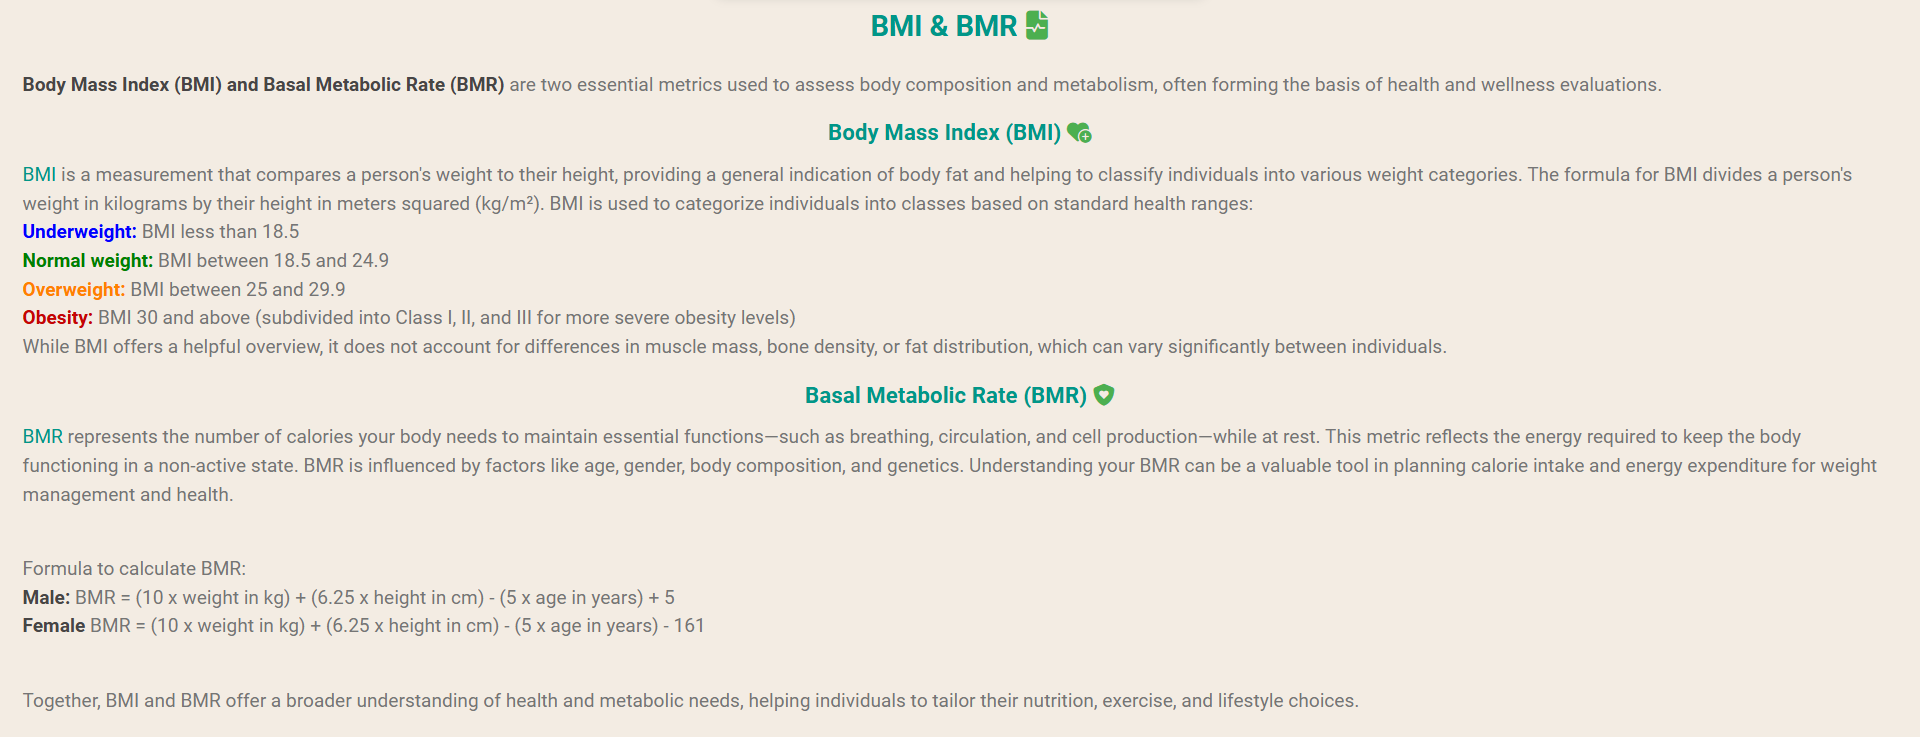
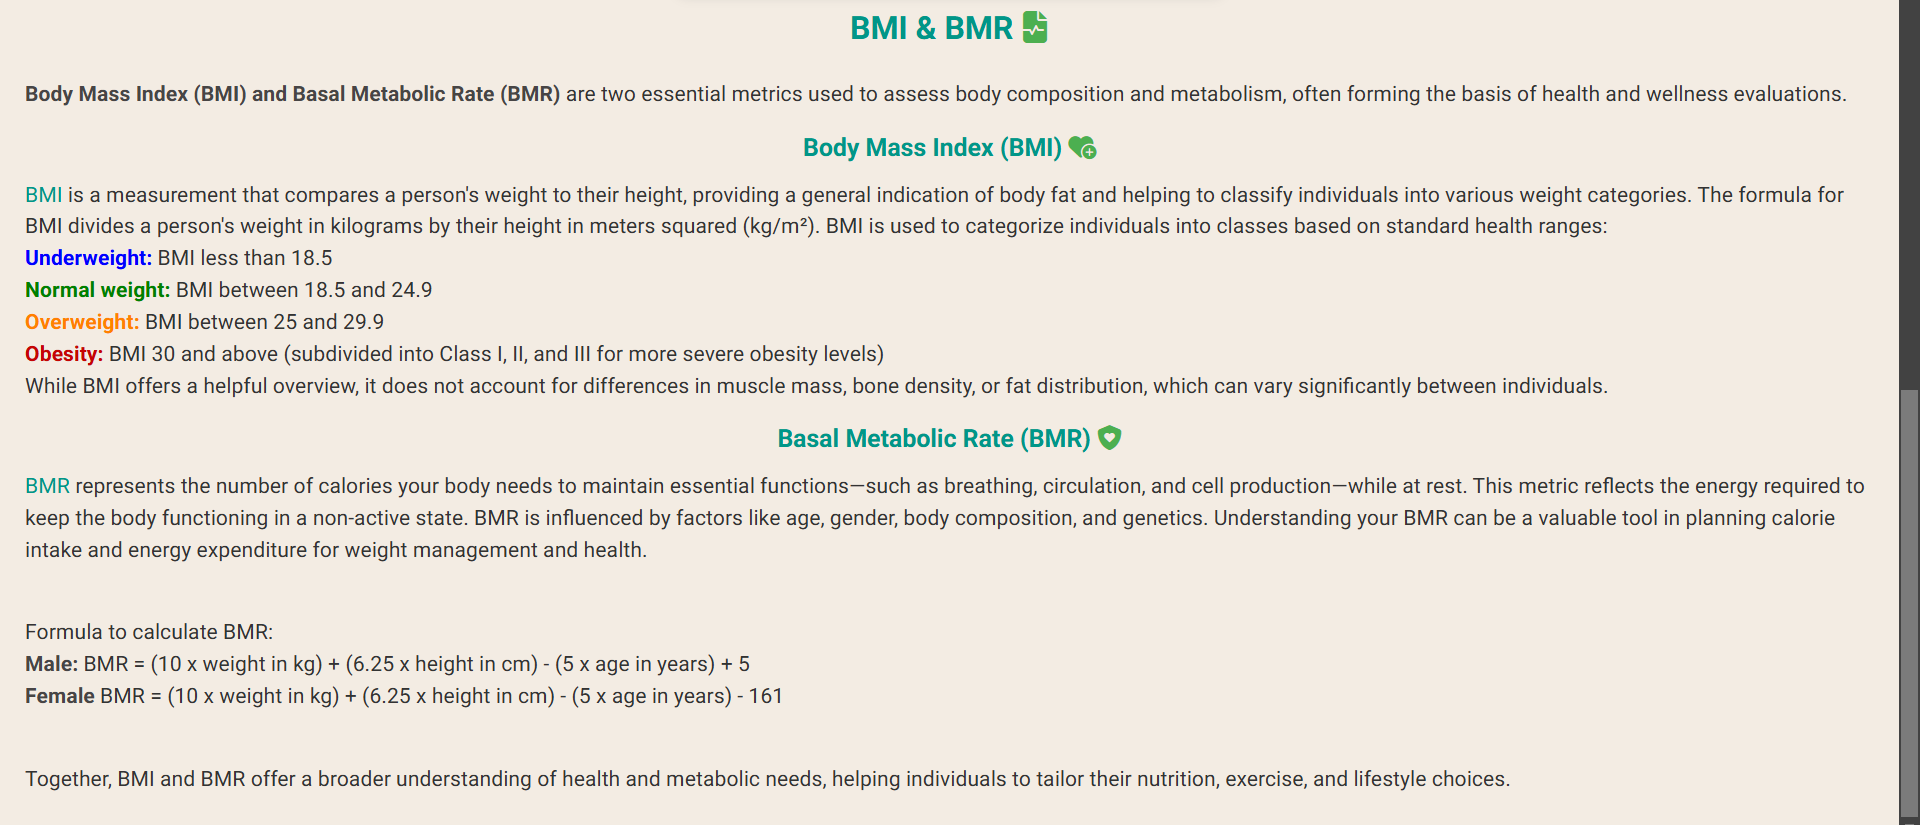
Update font color of the information section, and update README.md

diff --git a/index.html b/index.html
@@ -72,13 +72,13 @@
     </div>
 
     <div id="bmi-calc" class="calculation">
-        <p>YOUR BMI IS : <span id="bmi-value" class="bmi-value-class">0</span></p>
+        <p>YOUR BMI : <span id="bmi-value" class="bmi-value-class">0</span></p>
         <hr>
         <p>BMI CATEGORY : <span id="bmi-category" class="bmi-value-class"></span></p>
     </div>
 
     <div id="bmr-calc" class="calculation">
-        <p>YOUR BMR IS : <span id="bmr-value" class="bmi-value-class">0</span></p>
+        <p>YOUR BMR : <span id="bmr-value" class="bmi-value-class">0</span></p>
     </div>
 
     <div id="bmi-info">

diff --git a/assets/css/style.css b/assets/css/style.css
@@ -195,7 +195,7 @@ h3 i {
 }
 
 #bmi-info p {
-    color: #757575;
+    color: #333333;
     margin-bottom: 15px;
     line-height: 1.5;
 }

diff --git a/README.md b/README.md
@@ -4,27 +4,28 @@
 
 The BMI Calculator is an interactive and responsive webpage that enables users to calculate their Body Mass Index (BMI) and Basal Metabolic Rate (BMR). It provides valuable insights into body composition and metabolism, helping users make informed decisions about their health and fitness goals.
 
-This site aims to showcase how pure JavaScript operates in a real-world context. It is targeted toward individuals who are interested in implementing more advanced JavaScript concepts in relation to HTML and CSS and also have a passion for fitness. The BMI Calculator is a fully responsive, JavaScript-based website allowing users to assess their fitness levels and understand the daily calorie intake required to maintain weight.
+This site aims to showcase how pure JavaScript operates in a real-world context. It targets individuals interested in implementing more advanced JavaScript concepts about HTML and CSS and who have a passion for fitness. The BMI Calculator is a fully responsive, JavaScript-based website allowing users to assess their fitness levels and understand the daily calorie intake required to maintain weight.
 
 ![Responsive Mockup](assets/images/screenshots/bmi_calculator_mockup.png)
 
 ## Features
 
 - __Information Input Form__
-    - Information about user which are required to calculate BMI, BMI category and BMR : 
+    - User information which is required to calculate BMI, BMI category, and BMR :
         - Age
         - Body-type
-        - Height 
-        - Weight 
+        - Height
+        - Weight
     - Gender selection via radio buttons.
-    - Calculate BMI & BMR button to initiate calculation (Users can also press "Enter").
+    - Calculate the BMI & BMR buttons to initiate the calculation (Users can also press "Enter").
+    - Dedicated Reset button.
     - Dedicated Reset button.
 
     ![Information Form](assets/images/screenshots/bmi_calculator_info_form.png)
 
 - __BMI Calculator__
     - Determines your BMI using your weight and height.
-    - Categorizes BMI into the following classes:
+    - Categories BMI into the following classes:
         - Underweight: BMI < 18.5 - (displayed in Blue)
         - Normal weight: BMI 18.5–24.9 - (displayed in Green)
         - Overweight: BMI 25–29.9 - (displayed in orange)
@@ -34,7 +35,7 @@ This site aims to showcase how pure JavaScript operates in a real-world context.
     - Estimates daily calorie needs to maintain essential bodily functions based on all the information of the user.
 
 - __Result Area__
-    - Shows the result of user's BMI calculation.
+    - Shows the result of the user's BMI calculation.
     - Shows what BMI category the user falls under.
 
     ![Result Area](assets/images/screenshots/bmi_calculator_result_and_category.png)
@@ -75,10 +76,10 @@ This site aims to showcase how pure JavaScript operates in a real-world context.
     - Clean and modern UI for better user experience.
 
 ## How to Use
-The users should perform following steps to calculate their BMI & BMR :
+The users should perform the following steps to calculate their BMI & BMR :
 - Enter their age, height (in cm), and weight (in kg).
 - Select their body type (male or female).
-- Click on the Calculate BMI & BMR button or press "Enter" on keyboard.
+- Click on the Calculate BMI & BMR button or press "Enter" on the keyboard.
 - View their calculated BMI, BMI category, and BMR in the results section.
 - Use the Reset button to clear all inputs and start over.
 
@@ -99,17 +100,17 @@ The users should perform following steps to calculate their BMI & BMR :
 - __Programmes & Libraries Used__
     1. __Chrome DevTools__
         - The built-in DevTools programme in the Chrome internet browser was used throughout the project to assist with        
-    responsiveness and styling of the website.
+        responsiveness and styling of the website.
     2. __[Google Fonts](https://fonts.google.com/?preview.text=Welcome%20To%20Talent%20Knox!)__
         - Google Fonts were used to import the fonts 'Roboto' and 'Lato'.
     3. __[Font Awesome](https://fontawesome.com/)__
-        - Font Awesome kit was used on all pages to add icons for aesthetic and UX purposes. The favicon was also created using this website.
+        - Font Awesome kit was used to add icons for aesthetic and UX purposes. The favicon was also created using this website.
     4. __[Gitpod](https://www.gitpod.io/)__
         - All the coding was done using Gitpod, also the terminal was used to commit to git and push to GitHub.
     5. __[GitHub](https://github.com/)__
         - GitHub was used to store all the coding after being pushed from Gitpod.
     6. __[W3C Markup Validation Service](https://validator.w3.org/#validate_by_input) & [W3 Jigsaw CSS Validator](https://jigsaw.w3.org/css-validator/)__
-        - W3C Markup Validator and W3 Jigsaw CSS Validator were used to test and validate the HTML and CSS coding of all the pages and their styles.
+        - W3C Markup Validator and W3 Jigsaw CSS Validator were used to test and validate the HTML and CSS.
     7. __[Javascript Validation Service](https://jshint.com/)__
         - Js Hint validation service was used to test and validate the javascript codes.
     8. __[Grammarly](https://app.grammarly.com/)__
@@ -125,7 +126,7 @@ The users should perform following steps to calculate their BMI & BMR :
     - [W3 Jigsaw CSS Validator](https://jigsaw.w3.org/css-validator/)
         - No errors or issues were returned after running the code present in the style.css file through the W3 Jigsaw CSS Validator.
     - [Javascript Validation Service](https://jshint.com/)
-        - No errors were returned after the code present in script.js was run through jshint javascript validator. However some warnings are shown which do not affect the functionality and usabilty of the webpage whatsoever.
+        - No errors were returned after the code present in script.js was run through Jshint javascript validator. However, some warnings are shown which do not affect the functionality and usability of the webpage whatsoever.
     - Lighthouse
         - I confirmed that the colors and fonts used in this website are easy to read and accessible by running this page through Lighthouse in Chrome DevTools.
 
@@ -134,15 +135,15 @@ The users should perform following steps to calculate their BMI & BMR :
 
 - __Bugs Fixed__
     - In script.js :
-        - Added (id = "calculate-button") to make sure the eventListener for the calculate button was working. Wasnt working with just class name. (lines 4)
-        - Wasnt able to get BMI value, was getting NaN. Fixed it after some research online. Learned to add arguments to pass them into broader scope as parameters. (line 90)
-        - During form validation, the code was continuing even after the first alert message was shown. Added "return" to ensure the discontinuation. (lines 37-58)
+        - Added (id = "calculate-button") to make sure the eventListener for the calculate button was working. Wasn't working with just the class name. (line 4)
+        - Wasn't able to get BMI value, was getting NaN. Fixed it after learning to add arguments to pass them into broader scope as parameters. (line 90)
+        - During form validation, the code continued even after the first alert message was shown. Added "return" to ensure the discontinuation. (lines 37-58)
 
 ## Deployment
   - The website was deployed to Github. The steps to deploy are as follows:
     - Login to [Github](https://www.gitpod.io/) and locate the targeted repository from the repositories menu.
     - Navigate to the settings tab and locate the 'Pages' tab.
-    - Under Build and Deployment section, change the Branch from 'none' to 'main'.
+    - Under the Build and Deployment section, change the Branch from 'none' to 'main'.
     - Refresh the page (if not automatically refreshed) and navigate back to the Code tab.
     - At the right side, in the Deployments section, click on github-pages and the published link will be presented there.
  
@@ -150,8 +151,8 @@ The users should perform following steps to calculate their BMI & BMR :
 
 
 ## Credits
-- In script.js, the error message function (lines 68 - 72) was created after a good amount research on Youtube. The video that mainly helped is - [Creating Custom Errors in JavaScript](https://www.youtube.com/watch?v=cVo186hyYsM&ab_channel=dcode).
-- In script.js, the for..of looping of arrays (lines 79 - 84) was inspired after some research on Google and Youtube. The video that helped the most is: [For of Loop with an Array in JavaScript](https://www.youtube.com/watch?v=c69Y2GpF6-U&ab_channel=Telusko).
+- In script.js, the error message function (lines 68 - 72) was created after a good amount of research on YouTube. The video that mainly helped is - [Creating Custom Errors in JavaScript](https://www.youtube.com/watch?v=cVo186hyYsM&ab_channel=dcode).
+- In script.js, the for..of looping of arrays (lines 79 - 84) was inspired after some research on Google and YouTube. The video that helped the most is: [For of Loop with an Array in JavaScript](https://www.youtube.com/watch?v=c69Y2GpF6-U&ab_channel=Telusko).
 - The code to wait for the DOM content to finish loading was taken from the [CI Love Maths project](https://taz1003.github.io/love-maths/).
 - The [MDN Web Docs](https://developer.mozilla.org/en-US/docs/Web/JavaScript/Reference/Global_Objects/Array) website was extremely helpful in creating the code found in script.js.
 
